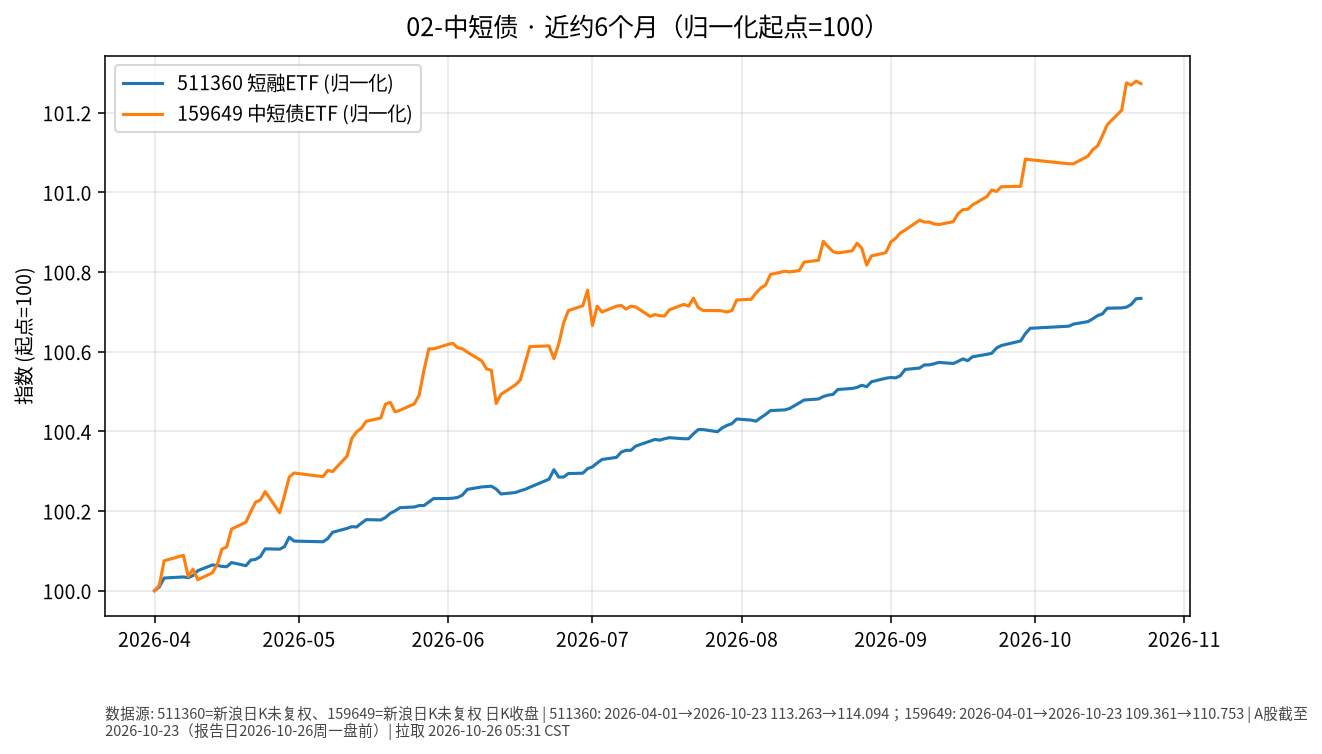
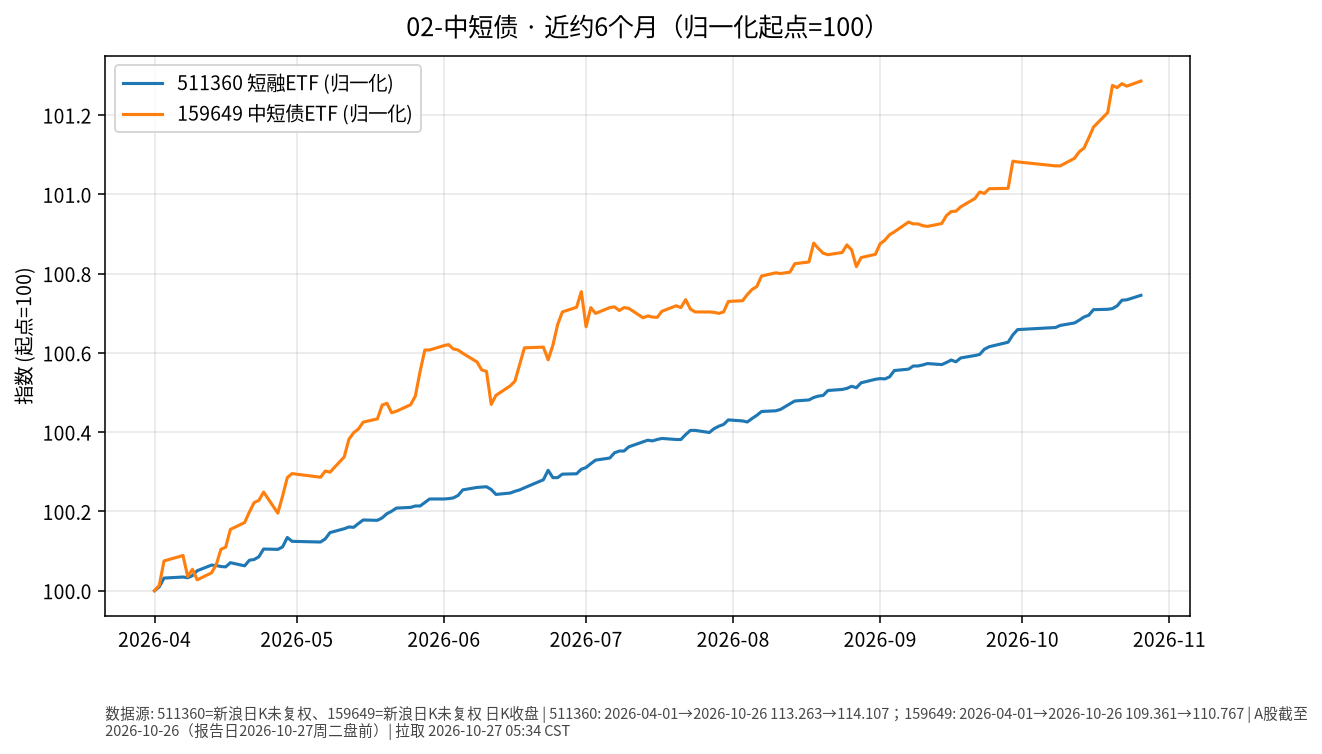
docs: 五门类投资日报 2026-10-27

diff --git a/01-黄金/日报/2026-10-27.md b/01-黄金/日报/2026-10-27.md
@@ -1,0 +1,30 @@
+# 黄金 · 日报 2026-10-27
+
+## 市场状态
+- **报告日**：2026-10-27（周二，Asia/Shanghai 盘前例程）
+- **数据截止交易日**：美股/GLD **2026-10-26**；A 股/沪金 **2026-10-26**（周一收盘；周二盘前取上一交易日）。
+- GLD 收盘 **367.82**，较前一交易日 **+0.33%**（yfinance）。
+- 沪金 AU9999：**2026-10-26** 收盘 **861.41** 元/克（**-0.30%**）；黄金 ETF 518880 收 **8.185**（**-0.17%**）。
+
+## 关键数据
+| 标的 | 最近收盘日 | 收盘 | 日涨跌 | 近约6个月（归一起点日） | 区间涨跌 |
+|------|------------|------|--------|-------------------------|----------|
+| GLD | 2026-10-26 | 367.82 | +0.33% | 2026-04-27→2026-10-26 | -14.44% |
+| 518880 黄金ETF | 2026-10-26 | 8.185 | -0.17% | 2026-04-27→2026-10-26 | -17.30% |
+| AU9999（沪金） | 2026-10-26 | 861.41 | -0.30% | 2026-04-27→2026-10-26 | -16.95% |
+
+![近6个月走势](./charts/01-黄金-6m.png)
+
+## 简要解读
+- 美元计价黄金 ETF（GLD）在 **2026-10-26** 小幅回升（约 **+0.33%**），境内 518880、沪金 AU9999 同日仍略下行（约 **-0.17%** / **-0.30%**）；近约半年归一后约 **-14.44%～-17.30%**。
+- 价格变动同时受美元、实际利率与风险情绪影响；本页只描述已发生报价，不推断下一步方向。
+
+## 关注点与风险
+- 汇率：境内投资者若以人民币计量，还需叠加美元兑人民币变动，账面涨跌可能与 GLD 美元涨跌不一致。
+- 波动：黄金阶段性回撤后波动仍可能放大；ETF 净值/溢价、交易时段与现货不完全同步。
+- 数据完整性：GLD 为 yfinance 完整日 K（至 2026-10-26）；518880 新浪日 K；SGE Au99.99 完整。图中三条归一曲线均已叠加。
+
+## 来源与时间
+- GLD：yfinance（至 2026-10-26；新浪 hq `gb_gld` 同日核对 367.82）；拉取约 2026-10-27 05:35 Asia/Shanghai
+- 518880：新浪日 K；AU9999：上海金交所 Dailyhq
+- 图表：Python matplotlib，收盘价归一到起点=100（图窗自 2026-04-01 起）

diff --git a/03-国债/日报/2026-10-27.md b/03-国债/日报/2026-10-27.md
@@ -1,0 +1,29 @@
+# 国债 · 日报 2026-10-27
+
+## 市场状态
+- **报告日**：2026-10-27；**数据截止交易日**：**2026-10-26**。
+- 国债 ETF 511010 收 **141.171**，日涨跌 **+0.010%**（近乎持平）。
+- 中债国债收益率曲线 **10 年期** 2026-10-26 报 **1.6376%**，较上一可得交易日（2026-10-23 的 1.6400%）约 **-0.24 BP**（中国债券信息网 pbc/more 公开表）。
+- **提醒**：利率上行（曲线抬升）通常对应既有国债价格承压；图中 ETF 净值涨 ≠ 收益率涨。**利率↑线↑≠债价涨**。
+
+## 关键数据
+| 标的 | 收盘日 | 收盘/收益率 | 日变化 | 约6个月 | 区间 |
+|------|--------|-------------|--------|---------|------|
+| 511010 | 2026-10-26 | 141.171 | +0.010% | 2026-04-27→2026-10-26 | +0.33% |
+| 中债10Y国债收益率 | 2026-10-26 | 1.6376% | 约-0.24 BP | — | 公开曲线单日点（较 2026-10-23） |
+
+![近6个月走势](./charts/03-国债-6m.png)
+
+## 简要解读
+- 511010 近半年归一涨跌约 **+0.33%**，路径相对平缓；2026-10-26 几乎持平，与 10Y 收益率相对 2026-10-23 微幅下行（约 -0.24 BP）的量级方向一致。
+- 久期越长，对收益率变化越敏感；本页只记录 ETF 收盘与曲线点位。
+
+## 关注点与风险
+- 利率风险：收益率上行 → 债券市价下行。
+- 通胀预期、货币政策与供需（供给放量等）都会改变曲线形态。
+- 本次未能拉取 10Y 收益率完整日序入图（akshare 不可用），故图中未叠加收益率轴，仅在正文引用单日点位；上一可得点位取自 2026-10-23（中间周末无新曲线）。
+
+## 来源与时间
+- 511010：新浪日 K；截止 2026-10-26
+- 收益率：yield.chinabond.com.cn pbc/more（2026-10-26，10Y=1.6376%）；对照点 2026-10-23=1.6400%
+- 图表：matplotlib，ETF 收盘归一=100

diff --git a/05-高股息/日报/2026-10-27.md b/05-高股息/日报/2026-10-27.md
@@ -1,0 +1,30 @@
+# 高股息 · 日报 2026-10-27
+
+## 市场状态
+- **报告日**：2026-10-27；**数据截止交易日**：**2026-10-26**。
+- 红利 ETF 510880 收 **3.357**（**+1.42%**）。
+- 招商银行 600036 收 **42.50**（**+1.75%**）；长江电力 600900 收 **29.86**（**+1.39%**）。
+- 三条序列同日均上行；分红与价格涨跌是两回事（股息率随股价变动）。
+- **价格口径**：本页序列为交易所日 K **未复权**收盘（新浪）。
+
+## 关键数据
+| 标的 | 收盘日 | 收盘 | 日涨跌 | 约6个月 | 区间涨跌 |
+|------|--------|------|--------|---------|----------|
+| 510880 红利ETF | 2026-10-26 | 3.357 | +1.42% | 2026-04-27→2026-10-26 | +2.50% |
+| 600036 招商银行 | 2026-10-26 | 42.50 | +1.75% | 2026-04-27→2026-10-26 | +7.92% |
+| 600900 长江电力 | 2026-10-26 | 29.86 | +1.39% | 2026-04-27→2026-10-26 | +12.00% |
+
+![近6个月走势](./charts/05-高股息-6m.png)
+
+## 简要解读
+- 近半年归一（未复权）：510880 约 **+2.50%**，招行约 **+7.92%**，长电约 **+12.00%**（个股路径强于宽基红利 ETF，不代表未来）。
+- 2026-10-26 三条序列同日上行，属已发生的价格事实。
+
+## 关注点与风险
+- 银行与公用事业对利率、监管、来水/电价等基本面敏感；高股息不保证本金稳定。
+- 510880 成分与权重定期调整；个股与 ETF 走势可显著偏离。
+- 未复权序列在除权除息日会出现跳空，与前复权路径不一致属正常。
+
+## 来源与时间
+- 510880 / 600036 / 600900：新浪 CN_MarketData K 线（未复权）
+- 截止 2026-10-26；图表 matplotlib，起点=100

diff --git a/02-中短债/日报/2026-10-27.md b/02-中短债/日报/2026-10-27.md
@@ -1,0 +1,28 @@
+# 中短债 · 日报 2026-10-27
+
+## 市场状态
+- **报告日**：2026-10-27；**A 股数据截止交易日**：**2026-10-26**（周二盘前，取周一收盘）。
+- 短融 ETF 511360 收 **114.107**（日涨跌 **+0.011%**）。
+- 159649（国开债 ETF 华安）收 **110.767**（日涨跌 **+0.013%**）。
+- 短端品种单日变动极小；仅作路径对照，非交易建议。
+
+## 关键数据
+| 标的 | 收盘日 | 收盘 | 日涨跌 | 约6个月区间 | 区间涨跌 |
+|------|--------|------|--------|-------------|----------|
+| 511360 短融ETF海富通 | 2026-10-26 | 114.107 | +0.011% | 2026-04-27→2026-10-26 | +0.64% |
+| 159649 国开债ETF华安 | 2026-10-26 | 110.767 | +0.013% | 2026-04-27→2026-10-26 | +1.09% |
+
+![近6个月走势](./charts/02-中短债-6m.png)
+
+## 简要解读
+- 两条曲线近半年均呈缓慢抬升（归一后约 **+0.64%** / **+1.09%**），单日波动接近于零，符合短久期利率品种特征。
+- 159649 跟踪国开债，久期与信用暴露通常高于纯短融；与 511360 并排只为对照路径，不暗示优劣。
+
+## 关注点与风险
+- 利率上行时净值可能回撤（即使票息仍为正）。
+- ETF 折溢价、流动性与跟踪误差；节假日后跳空可能出现。
+- 杠杆与加久期会放大波动——本报告不讨论、不鼓励此类操作。
+
+## 来源与时间
+- 新浪 CN_MarketData 日 K，截止 2026-10-26
+- 图表：matplotlib，起点归一=100；拉取约 2026-10-27 05:35 Asia/Shanghai

diff --git a/04-纯债/日报/2026-10-27.md b/04-纯债/日报/2026-10-27.md
@@ -1,0 +1,28 @@
+# 纯债 · 日报 2026-10-27
+
+## 市场状态
+- **报告日**：2026-10-27；**数据截止交易日**：**2026-10-26**。
+- 城投债 ETF 511220 收 **10.467**（**+0.029%**）。
+- 政金债/债券 ETF 511520 收 **119.746**（**+0.115%**）。
+- 两条曲线单日变动均很小；近半年仍呈缓慢抬升。
+
+## 关键数据
+| 标的 | 收盘日 | 收盘 | 日涨跌 | 约6个月区间 | 区间涨跌 |
+|------|--------|------|--------|-------------|----------|
+| 511220 城投债ETF海富通 | 2026-10-26 | 10.467 | +0.029% | 2026-04-27→2026-10-26 | +1.35% |
+| 511520 政金债ETF富国 | 2026-10-26 | 119.746 | +0.115% | 2026-04-27→2026-10-26 | +2.67% |
+
+![近6个月走势](./charts/04-纯债-6m.png)
+
+## 简要解读
+- 近半年归一：511220 约 **+1.35%**，511520 约 **+2.67%**；2026-10-26 两者均小幅上行。
+- 城投债含信用利差暴露，政金债更偏利率；并排对照路径，不评价孰优。
+
+## 关注点与风险
+- 信用利差扩张时，城投/信用类净值回撤可能大于利率债。
+- 利率上行同样压制久期更长的品种。
+- ETF 折溢价与跟踪误差；本报告不讨论杠杆与下沉信用。
+
+## 来源与时间
+- 新浪 CN_MarketData 日 K，截止 2026-10-26
+- 图表：matplotlib，起点归一=100

diff --git a/notes/invest-knowledge-100/今日一点/2026-10-27-day02.md b/notes/invest-knowledge-100/今日一点/2026-10-27-day02.md
@@ -1,0 +1,5 @@
+# 今日一点 · Day 2/100 · 《三类风险》
+
+**结论：** 投资里要盯的不只是价格晃，还有「对方还不上」和「急用钱卖不出」——三类风险各管一件事。
+
+**市场波动**：利率或情绪一变，净值就会上下；波动本身不等于本金没了，但被迫在低点卖，波动就变成真损失。**信用违约**：借钱方还本付息出问题，损失可能不可逆，和暂时回撤不是一回事。**流动性**：账上资产看着值钱，急用时却卖不动或只能折价。债底仓（中短债/国债/纯债）先把「不可逆」和「卖不出」压下去；股票卫星是后面才可能划的一小笔——今天只记概念，不谈买卖。

diff --git a/notes/invest-knowledge-100/progress.md b/notes/invest-knowledge-100/progress.md
@@ -1,4 +1,4 @@
-next_day: 2
+next_day: 3
 started: 2026-10-26
-last_completed_day: 1
-last_date: 2026-10-26
+last_completed_day: 2
+last_date: 2026-10-27
